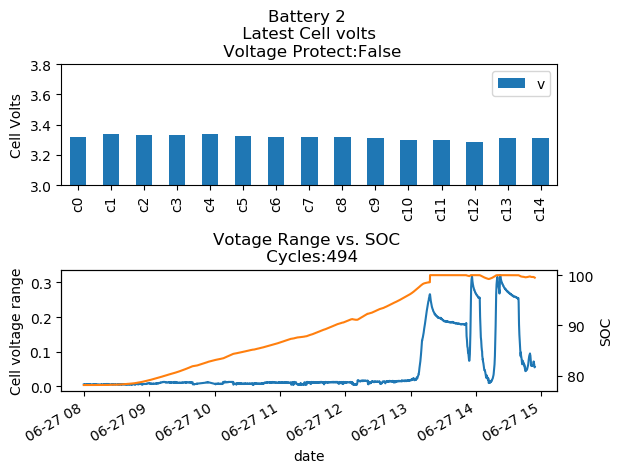
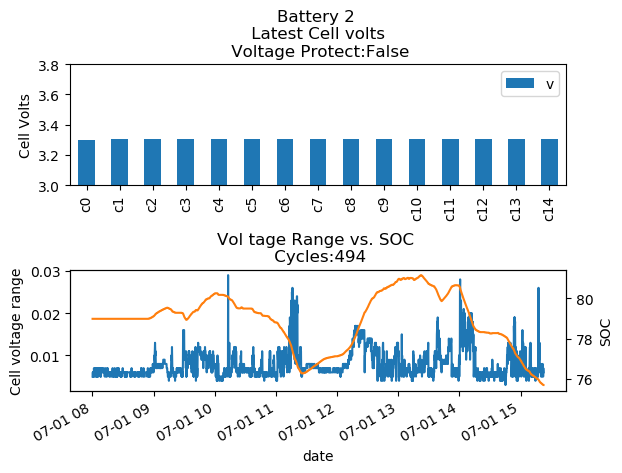
minor update

diff --git a/solarsys/mqqt_test.py b/solarsys/mqqt_test.py
@@ -1,0 +1,118 @@
+import os
+from datetime import datetime
+import sqlite3
+from collections import OrderedDict
+from pathlib import Path
+import logging
+from mppsolar import get_outputs
+
+logger = logging.getLogger(__name__)
+
+def output_dic(input_dict):
+    my_dict = OrderedDict()
+    for k,v in input_dict.items():
+        if type(v)==dict:
+            for k1,v1 in v.items():
+                my_dict[k1] = v1
+        else:
+            my_dict[k] = v
+    return my_dict
+
+test_idata = {'gridvoltage': 229.1,
+             'grid_frequency': 49.8,
+             'inverter_voltage': 229.1,
+             'inverter_frequency': 49.8,
+             'apparent_power': 1053.0,
+             'loadwatts': 976.0,
+             'loadpercentage': 21.0,
+             'busvoltage': 371.0,
+             'batteryvolts': 50.2,
+             'bat_charge_current': 2.0,
+             'soc': 60.0, 'inverter_temp': 39.0,
+             'pv_input_current_battery': 2.0,
+             'pvVolts1': 212.6,
+             'bat_discharge_current': 0.0,
+             'device_status': {'SBU_priority': 0,
+                               'config_changed': 0,
+                               'SSC_firmware_updated': 0,
+                               'load_on': 1,
+                               'bat_volt_steady': 0,
+                               'charging_on': 0,
+                               'scc_changing_on': 1,
+                               'ac_on': 0},
+             'pvwatts': 145.0,
+             'batteryamps': 2.0,
+             'batterywatts': 100.4,
+             'pvAmps1': 2.0,
+             'gridwatts': 931.4000000000001,
+             'SolarWatts': 44.59999999999991}
+
+test_bdata = {'addr': 4,
+             'cell_volts': (50.053, [3.337, 3.336, 3.337, 3.338, 3.336, 3.338, 3.337, 3.338, 3.337, 3.336, 3.336, 3.336, 3.335, 3.336, 3.34]),
+             'current': 0.0,
+             'soc': 77.87,
+             'capacity': 112.76,
+             'temp': [21.0, 21.0, 21.0, 21.0],
+             'status': {'Charge_MOS_Error': 0,
+                        'Discharge_MOS_Error': 0,
+                        'Voltage_Module_Error': 0,
+                        'NTC_Line_Disconnected': 0,
+                        'Current_Module_Error': 0,
+                        'Charge_Source_Reversed': 0,
+                        'Discharge_OT_Protect': 0,
+                        'Discharge_UT_Protect': 0,
+                        'Charging': 0,
+                        'Discharging': 0,
+                        'Short_Current_Protect': 0,
+                        'Over_Current_Protect': 0,
+                        'Over_Voltage_Protect': 0,
+                        'Under_Voltage_Protect': 0,
+                        'Charge_OT_Protect': 0,
+                        'Charge_UT_Protect': 0},
+             'cycles': 558,
+             'packvolts': 50.05,
+             'soh': 100.0}
+
+results = output_dic(test_idata)
+outputs = get_outputs('json_mqtt')
+
+
+mqtt_broker ="192.168.0.15"
+mqtt_port = 1883
+username = 'emqx'
+password = 'public'
+mqtt_user = username
+mqtt_pass = password
+filter = None
+excl_filter =None
+
+data=results
+mqtt_broker=mqtt_broker
+mqtt_port=mqtt_port
+mqtt_user=mqtt_user
+mqtt_pass=mqtt_pass,
+mqtt_topic='python/mqtt'
+filter=filter
+excl_filter=excl_filter
+keep_case=True
+_tag = 'test'
+
+while True:
+    for op in outputs:
+        # maybe include the command and what the command is im the output
+        # eg QDI run, Display Inverter Default Settings
+        logger.debug(f"Using output filter: {filter}")
+        op.output(
+            data=results,
+            tag=_tag,
+            mqtt_broker=mqtt_broker,
+            mqtt_port=mqtt_port,
+            mqtt_user=mqtt_user,
+            mqtt_pass=mqtt_pass,
+            mqtt_topic=mqtt_topic,
+            filter=filter,
+            excl_filter=excl_filter,
+            keep_case=keep_case,
+        )
+
+

diff --git a/solarsys/solarsys_chart.py b/solarsys/solarsys_chart.py
@@ -12,16 +12,19 @@ y = []
 
 db = DataBase()
 
-
 import pandas as pd
 import numpy as np
 db = DataBase()    
 cur = db.con.cursor()
 cur.execute('PRAGMA journal_mode=WAL;')
-start_date = datetime(2021,6,27,8)
+start_date = datetime(2021,7,18,7,30)
 print(str(start_date))
 inv = pd.read_sql(f'SELECT * FROM MAIN_INVERTER WHERE date > "{start_date}"',
                   db.con,parse_dates=['date'])
+
+print(inv.columns)
+exit()
+
 bat = pd.read_sql(f'SELECT * FROM BATTERY WHERE date > "{start_date}"',
                   db.con,parse_dates=['date'])
 bat = bat.set_index('date')
@@ -35,7 +38,8 @@ inv['load_wh'] = inv['loadwatts'] * inv.tdelta
 inv['grid_wh'] = inv['gridwatts'] * inv.tdelta
 inv['bat_wh'] = inv['batterywatts'] * inv.tdelta
 print(inv[['pvwatts','loadwatts']])
-print(inv[['pv_wh','load_wh','grid_wh','bat_wh']].groupby(pd.Grouper(freq='H')).sum()/1000.0)
+hour_data =inv[['pv_wh','load_wh','grid_wh','bat_wh']].groupby(pd.Grouper(freq='H')).sum()/1000.0
+hour_data.plot.bar(title='Hourly Graph')
 print(inv[['pv_wh','load_wh','grid_wh','bat_wh']].groupby(pd.Grouper(freq='D')).sum()/1000.0)
 #plt.figure()
 cols = ['pvwatts','loadwatts','gridwatts','batterywatts']
@@ -44,11 +48,12 @@ bat[bat.addr==0].soc.plot(ax=ax, secondary_y=True)
 lines = ax.get_lines() + ax.right_ax.get_lines()
 ax.legend(lines,cols +['SOC'])
 
-
+cols = ['loadwatts']
+ax=inv[cols].plot()
         #print(bat[['addr','cell_volts']])
 bat[[f'c{c}'for c in range(0,15)]] = bat.cell_volts.str.split(',',expand=True)
 bat[[f'c{c}'for c in range(0,15)]] = bat[[f'c{c}'for c in range(0,15)]].applymap(lambda x: float(x.strip()))
-if 1:
+if 0:
     for add in bat.addr.unique():
         fig, axs = plt.subplots(nrows=2, ncols=1)
         fig.subplots_adjust(hspace=.7)
@@ -59,7 +64,7 @@ if 1:
         #ax0 = bat[bat.addr==add][[f'c{c}'for c in range(0,15)]].range().plot(title=f'Battery {add}')
         cell_range = bat[bat.addr==add][[f'c{c}'for c in range(0,15)]].max(axis=1) - \
             bat[bat.addr==add][[f'c{c}'for c in range(0,15)]].min(axis=1)
-        ax1 = cell_range.plot(ax=axs[1],title=f'Votage Range vs. SOC \n Cycles:{cycles}')
+        ax1 = cell_range.plot(ax=axs[1],title=f'Vol tage Range vs. SOC \n Cycles:{cycles}')
         ax1.set_ylabel('Cell voltage range')
         bat[bat.addr==add].soc.plot(ax=ax1,secondary_y=True)
         ax1.right_ax.set_ylabel('SOC')

diff --git a/solarsys/mqqt_pub.py b/solarsys/mqqt_pub.py
@@ -1,0 +1,53 @@
+# python 3.6
+
+import random
+import time
+
+from paho.mqtt import client as mqtt_client
+
+
+broker = '192.168.0.15'
+port = 1883
+topic = "python/mqtt"
+# generate client ID with pub prefix randomly
+client_id = f'python-mqtt-{random.randint(0, 1000)}'
+username = 'emqx'
+password = 'public'
+
+def connect_mqtt():
+    def on_connect(client, userdata, flags, rc):
+        if rc == 0:
+            print("Connected to MQTT Broker!")
+        else:
+            print("Failed to connect, return code %d\n", rc)
+
+    client = mqtt_client.Client(client_id)
+    client.username_pw_set(username, password)
+    client.on_connect = on_connect
+    client.connect(broker, port)
+    return client
+
+
+def publish(client):
+    msg_count = 0
+    while True:
+        time.sleep(0)
+        msg = f"messages: {msg_count}"
+        result = client.publish(topic, msg)
+        # result: [0, 1]
+        status = result[0]
+        if status == 0:
+            print(f"Send `{msg}` to topic `{topic}`")
+        else:
+            print(f"Failed to send message to topic {topic}")
+        msg_count += 1
+
+
+def run():
+    client = connect_mqtt()
+    client.loop_start()
+    publish(client)
+
+
+if __name__ == '__main__':
+    run()

diff --git a/solarsys/mqtt_sub.py b/solarsys/mqtt_sub.py
@@ -1,0 +1,47 @@
+# python3.6
+
+import random
+
+from paho.mqtt import client as mqtt_client
+
+
+broker = '192.168.0.2'
+broker = 'localhost'
+port = 1883
+topic = "python/mqtt"
+# generate client ID with pub prefix randomly
+client_id = f'python-mqtt-{random.randint(0, 100)}'
+username = 'emqx'
+password = 'public'
+
+
+def connect_mqtt() -> mqtt_client:
+    def on_connect(client, userdata, flags, rc):
+        if rc == 0:
+            print("Connected to MQTT Broker!")
+        else:
+            print("Failed to connect, return code %d\n", rc)
+
+    client = mqtt_client.Client(client_id)
+    client.username_pw_set(username, password)
+    client.on_connect = on_connect
+    client.connect(broker, port)
+    return client
+
+
+def subscribe(client: mqtt_client):
+    def on_message(client, userdata, msg):
+        print(f"Received `{msg.payload.decode()}` from `{msg.topic}` topic")
+
+    client.subscribe(topic)
+    client.on_message = on_message
+
+
+def run():
+    client = connect_mqtt()
+    subscribe(client)
+    client.loop_forever()
+
+
+if __name__ == '__main__':
+    run()

diff --git a/solarsys/mqqt_test2.py b/solarsys/mqqt_test2.py
@@ -1,0 +1,23 @@
+import paho.mqtt.client as mqtt #import the client1
+import time
+############
+def on_message(client, userdata, message):
+    print("message received " ,str(message.payload.decode("utf-8")))
+    print("message topic=",message.topic)
+    print("message qos=",message.qos)
+    print("message retain flag=",message.retain)
+########################################
+broker_address="192.168.0.15"
+#broker_address="iot.eclipse.org"
+print("creating new instance")
+client = mqtt.Client("P1") #create new instance
+client.on_message=on_message #attach function to callback
+print("connecting to broker")
+client.connect(broker_address) #connect to broker
+client.loop_start() #start the loop
+print("Subscribing to topic","house/bulbs/bulb1")
+client.subscribe("house/bulbs/bulb1")
+print("Publishing message to topic","house/bulbs/bulb1")
+client.publish("house/bulbs/bulb1","OFF")
+time.sleep(4) # wait
+client.loop_stop() #stop the loop

diff --git a/solarsys/core.py b/solarsys/core.py
@@ -151,7 +151,7 @@ def inverter_service(bsoc,asoc,c,db):
             bsoc.acquire(),asoc.acquire()
             c.put({'inverter':res})
             db.put({'inverter':res})
-            if asoc.value <= 71.0 and asoc.value!=0:
+            if asoc.value <= 60.0 and asoc.value!=0:
                 # logger.debug('####### Must Stop Discharging Battery #######')
                 # We can check on this basis because of the way charge source
                 # priorty is set. This will have to change if charge source set
@@ -171,7 +171,7 @@ def inverter_service(bsoc,asoc,c,db):
                         logger.info(f'POP00 command status: {cres}')
 
                 
-            if asoc.value >= 75.0:
+            if asoc.value >= 63.0:
                 # logger.debug('########### Can Discharge Now ###########')
                 if res['device_status']['charging_on'] \
                    + res['device_status']['scc_changing_on'] == 1:
